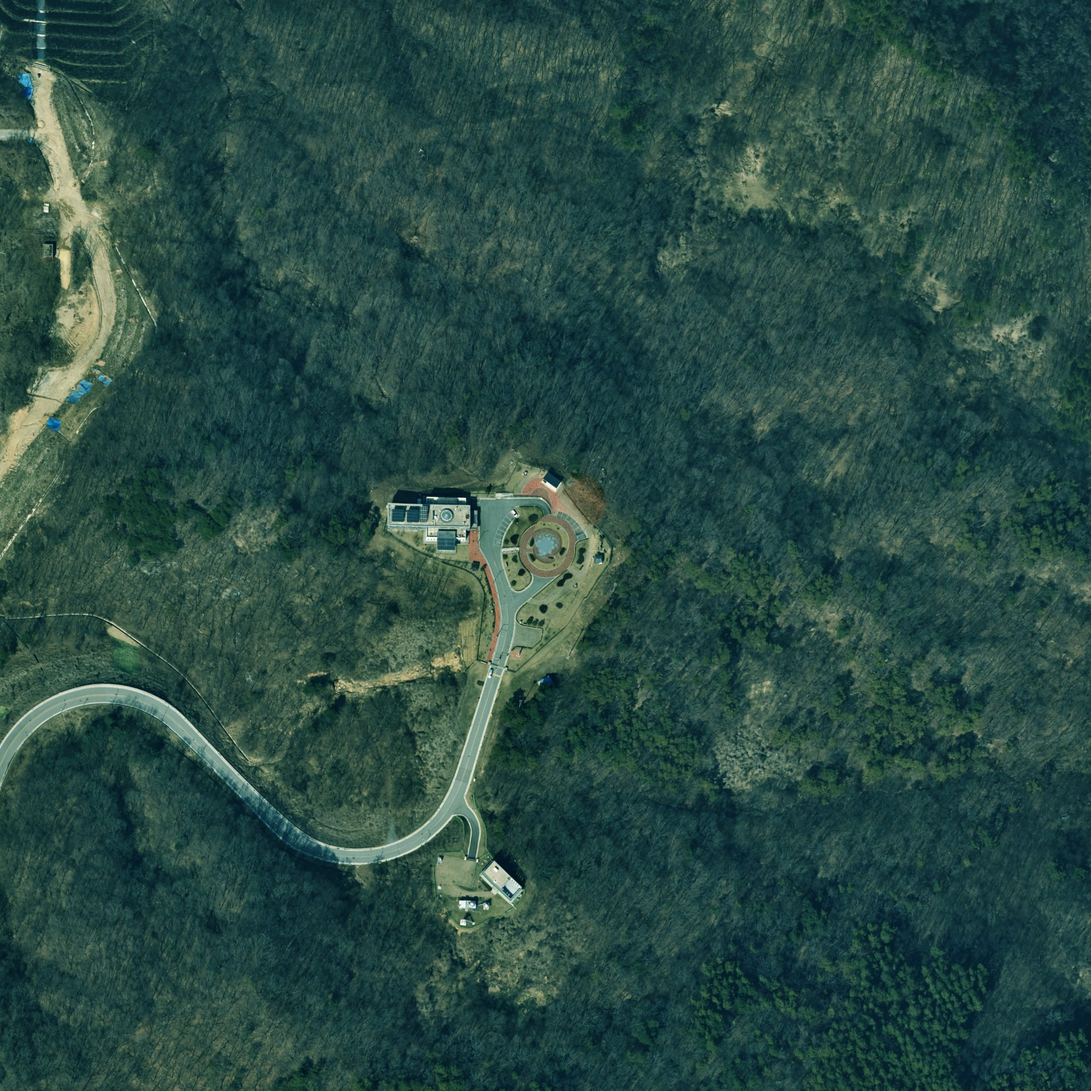
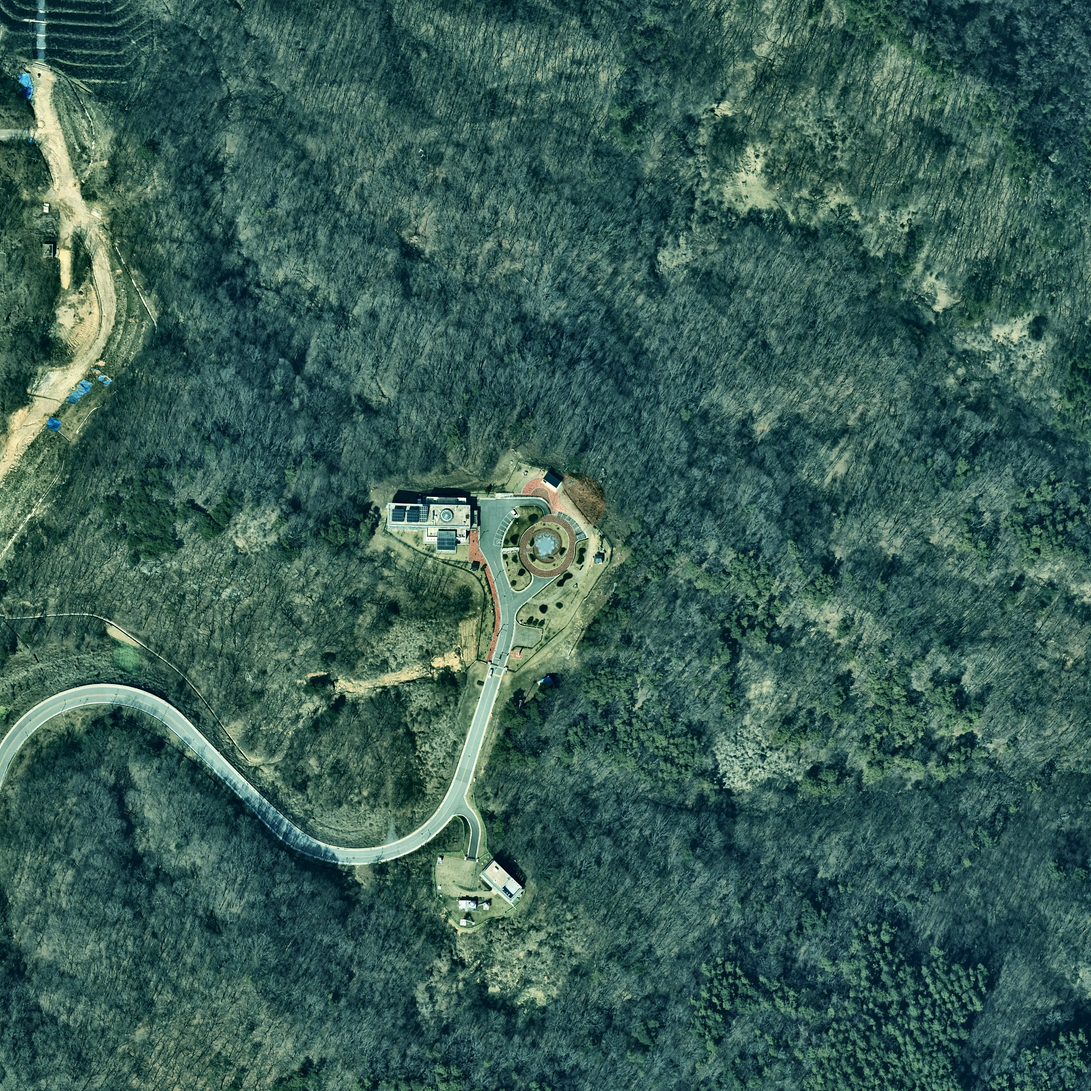
deploy p10051211

diff --git a/ts/antenna3d.html b/ts/antenna3d.html
@@ -269,7 +269,7 @@ if(T&&hasGL()){try{A3D=(function(){
   const TER={on:false,mesh:null,ring:null,busy:false,twin:null,dem:null};
   async function setTerrain(on){
     TER.on=!!on; GND.visible=!TER.on; if(WIND)WIND.group.visible=!TER.on;
-    if(TER.mesh)TER.mesh.visible=TER.on; if(TER.ring)TER.ring.visible=TER.on; if(TER.twin)TER.twin.visible=TER.on;
+    if(TER.mesh)TER.mesh.visible=TER.on; if(TER.shadow)TER.shadow.visible=TER.on; if(TER.ring)TER.ring.visible=TER.on; if(TER.twin)TER.twin.visible=TER.on;
     if(ANT&&ANT.setTrunk)ANT.setTrunk(TER.on&&TER.path?TER.path:TRUNK0);
     // 지형일 때는 안개를 화면 바탕색(#0a1120, sRGB → 선형)으로 — 사진 끝이 바탕에 녹아든다
     scene.fog=TER.on?new T.Fog(new T.Color(0x0a1120).convertSRGBToLinear(),330,980):(EMBED?null:new T.Fog(0x0a1120,240,560));
@@ -280,10 +280,13 @@ if(T&&hasGL()){try{A3D=(function(){
       // 미니앱 잠금판이면 TSX 가 암호문(x/<사이트 기준 경로>.bin)을 풀어 준다
       const base='models/terrain/', get=async(u,t)=>{ if(window.TSX&&TSX.fetch&&TSX.has&&TSX.has(u)){const rel=new URL(u,location.href).href.split('?')[0].slice(TSX.base.length);
           const b=await TSX.fetch(rel);return t==='json'?JSON.parse(new TextDecoder().decode(b)):new Blob([b],{type:'image/jpeg'});}
+        if(t==='img')return u;   // 잠금판이 아니면 그림은 주소 그대로(10-05 — 큰 그림을 blob 으로 거치면 크롬이 디스크에 내려 두다 깨질 수 있다)
         const r=await fetch(u,{cache:'force-cache'}); if(!r.ok)throw new Error(u+' '+r.status); return t==='json'?r.json():r.blob(); };
-      // 무늬 크기 — 큰 화면(크게 보기·상황실) 4k · 카드 2k · 아주 작은 창 1k
-      const big=Math.max(innerWidth,innerHeight), oname=big<520?'site_ortho_1k.jpg':(EMBED&&!BARE)||big<1100?'site_ortho.jpg':'site_ortho_4k.jpg';
-      const [dem,hz,img]=await Promise.all([get(base+'site_dem.json','json'),get(base+'horizon.json','json'),get(base+oname,'blob')]);
+      // 무늬 크기 — 10-05 화질(센터장님 "정사영상 화질이 너무 안 좋은데"): 작은 창이 1k(0.58 m/px)를 받아 뭉개지던 것을 막는다.
+      //   늘 2k(0.29 m/px — 원본 0.25 m 와 거의 같다) 이상 · 데스크톱의 큰 화면(크게 보기·상황실)은 4k. 휴대폰·미니앱은 메모리 때문에 2k 까지
+      const px=Math.max(innerWidth,innerHeight)*Math.min(devicePixelRatio||1,2), mobile=!!FEEDURL||/Mobi|Android|iPhone|iPad/i.test(navigator.userAgent),
+            oname=!mobile&&px>=1100&&!(EMBED&&!BARE)?'site_ortho_4k.jpg':'site_ortho.jpg';
+      const [dem,hz,img]=await Promise.all([get(base+'site_dem.json','json'),get(base+'horizon.json','json'),get(base+oname,'img')]);
       TER.dem=dem;
       const K=1.7, S=dem.side_m*K, N=dem.n, geo=new T.PlaneGeometry(S,S,N-1,N-1); geo.rotateX(-Math.PI/2);
       const pos=geo.attributes.position;
@@ -291,11 +294,15 @@ if(T&&hasGL()){try{A3D=(function(){
         // 보정판(v2)은 그대로 · 옛 판은 안테나 둘레 14 m 를 마당으로 눌러 30 m 까지 잇는다
         const w=dem.corrected?1:r<14?0:r>30?1:(r-14)/16; pos.setY(k,(dem.h[i*N+j]||0)*K*w*w*(3-2*w)-0.05);}
       geo.computeVertexNormals();
-      const tex=new T.Texture(); tex.image=await createImageBitmap(img,{imageOrientation:'flipY'}).catch(()=>null);
-      if(!tex.image){const im=new Image(); im.src=URL.createObjectURL(img); await im.decode(); tex.image=im; tex.flipY=true;} else tex.flipY=false;
-      tex.encoding=T.sRGBEncoding; tex.anisotropy=Math.min(8,rn.capabilities.getMaxAnisotropy()); tex.needsUpdate=true;
-      TER.mesh=new T.Mesh(geo,new T.MeshStandardMaterial({map:tex,roughness:1,metalness:0,envMapIntensity:.25}));
-      TER.mesh.receiveShadow=true; scene.add(TER.mesh);
+      const tex=new T.Texture(); let imgEl=null;
+      if(typeof img==='string'){ imgEl=new Image(); imgEl.decoding='async'; imgEl.src=img; await imgEl.decode(); tex.image=imgEl; tex.flipY=true; }
+      else{ tex.image=await createImageBitmap(img,{imageOrientation:'flipY'}).catch(()=>null);
+        if(!tex.image){const im=new Image(); im.src=URL.createObjectURL(img); await im.decode(); tex.image=im; tex.flipY=true;} else tex.flipY=false; }
+      tex.encoding=T.sRGBEncoding; tex.anisotropy=rn.capabilities.getMaxAnisotropy(); tex.needsUpdate=true;   // 비스듬히 봐도 흐려지지 않게 이방성 최대
+      // 사진 색 그대로(조명·ACES 톤 매핑을 받으면 어둡고 흐려졌다 — 10-05) — 정사영상에 해 그늘이 이미 들어 있다. 안테나·건물 그림자는 위에 따로 얹는다
+      TER.mesh=new T.Mesh(geo,new T.MeshBasicMaterial({map:tex,color:0xeeeeee,toneMapped:false}));
+      scene.add(TER.mesh);
+      TER.shadow=new T.Mesh(geo,new T.ShadowMaterial({opacity:.38})); TER.shadow.receiveShadow=true; TER.shadow.position.y=.03; scene.add(TER.shadow);
       // 지평선 — 반지름 RH 의 띠: 아래(땅 밖) → 실제 앙각 높이. 윗 가장자리에 옅은 청록 선
       const RH=760, M=360, vs=[], ix=[], ln=[];
       for(let a=0;a<=M;a++){const az=(a%360)*Math.PI/180, el=(hz.el[a%360]||0), y=Math.tan(Math.max(-0.4,el)*Math.PI/180)*RH;
@@ -306,7 +313,7 @@ if(T&&hasGL()){try{A3D=(function(){
       TER.ring.add(new T.Mesh(hg,new T.MeshBasicMaterial({color:new T.Color(0x081120).convertSRGBToLinear(),side:T.DoubleSide,fog:false,toneMapped:false})));
       TER.ring.add(new T.Line(new T.BufferGeometry().setFromPoints(ln),new T.LineBasicMaterial({color:0x5fd0e6,transparent:true,opacity:.55,fog:false,toneMapped:false})));
       scene.add(TER.ring);
-      TER.mesh.visible=TER.ring.visible=TER.on; dirty=true;
+      TER.mesh.visible=TER.shadow.visible=TER.ring.visible=TER.on; dirty=true;
       // 데이터 줄기 — 안테나 기단에서 지형을 따라 관측동 동쪽 현관(−37.8, 15)까지
       if(dem.corrected){const hAt=(e,n)=>{const x=(e+dem.side_m/2)/dem.side_m*(N-1), y=(dem.side_m/2-n)/dem.side_m*(N-1), j0=Math.max(0,Math.min(N-2,Math.floor(x))), i0=Math.max(0,Math.min(N-2,Math.floor(y))), fx=x-j0, fy=y-i0, H=dem.h;
           return H[i0*N+j0]*(1-fx)*(1-fy)+H[i0*N+j0+1]*fx*(1-fy)+H[(i0+1)*N+j0]*(1-fx)*fy+H[(i0+1)*N+j0+1]*fx*fy;};
@@ -317,8 +324,8 @@ if(T&&hasGL()){try{A3D=(function(){
       // 건물·필라 — 지붕에 같은 정사영상(glTF 무늬 좌표라 위아래를 뒤집지 않은 판)
       if(T.GLTFLoader){
         try{
-          const roofTex=new T.Texture(await createImageBitmap(img)); roofTex.flipY=false; roofTex.encoding=T.sRGBEncoding;
-          roofTex.anisotropy=Math.min(8,rn.capabilities.getMaxAnisotropy()); roofTex.needsUpdate=true;
+          const roofTex=new T.Texture(imgEl||await createImageBitmap(img)); roofTex.flipY=false; roofTex.encoding=T.sRGBEncoding;
+          roofTex.anisotropy=rn.capabilities.getMaxAnisotropy(); roofTex.needsUpdate=true;
           const L=new T.GLTFLoader(), url='models/site_twin.glb';
           const g=await new Promise((ok,no)=>{ if(window.TSX&&TSX.glb) TSX.glb(url).then(b=>L.parse(b,'',ok,no),no); else L.load(url,ok,undefined,no); });
           const tw=g.scene; tw.scale.setScalar(K);

diff --git a/ts/antmodel.js b/ts/antmodel.js
@@ -5,7 +5,7 @@
  *   사실적 재질(PBR, 하늘 반사) · **실제 해 쪽 그림자**(밤이면 옅은 달빛) · 바닥을 흐르는 **바람 결** · 받침을 감는 **케이블 나선** ·
  *   기단에서 나가는 **데이터 줄기**(기록·전송 중이면 빛이 흐른다) · 장애 난 부품이 **붉게 빛나고** 풀리면 초록으로 사그라진다(10-04).
  *   끌면 둘러보고 · 휠 확대 · 두 번 누르면 처음 시점. 글은 캔버스에 쓰지 않는다.
- * 쓰기: const m = AntModel.create(canvas, { url: '/web/models/sejong22m.glb', ortho: '/web/models/terrain/site_ortho_1k.jpg'(선택 — 정사영상 바닥) });
+ * 쓰기: const m = AntModel.create(canvas, { url: '/web/models/sejong22m.glb', ortho: '/web/models/terrain/site_ortho_core.jpg', orthoSpan: 64 (선택 — 정사영상 바닥) });
  *       m.set({ az, el, state, faults: {mount, hub, data}, hexapod, flow, wrapAz, wind: {wdir, wsp} }); m.resize();
  *   state: idle 파랑 · run 초록 · busy 호박 · halt 빨강 · off 회색
  *   faults: Sejong22m.faults(...) 결과 — 받침·구동부(ACU) · 허브(수신기·DBBC3) · 데이터 줄기(기록·전송)
@@ -80,16 +80,19 @@
     const shadowF = new T.Mesh(new T.CircleGeometry(30, 96), new T.ShadowMaterial({ opacity: 0.55 }));
     shadowF.rotation.x = -Math.PI / 2; shadowF.position.y = 0.01; shadowF.receiveShadow = true; scene.add(shadowF);
     const grid = new T.PolarGridHelper(29, 24, 6, 96, 0x1f3f6e, 0x15294a); grid.position.y = 0.02; scene.add(grid);
-    // 정사영상 바닥(10-04 디지털 트윈 — 가볍게): opts.ortho(1k, 590 m 네모)의 가운데 ±29 m 를 어둡게 눌러 깐다. 가장자리는 어둠으로 흐린다
+    // 정사영상 바닥(10-04 디지털 트윈 — 가볍게): opts.ortho 의 가운데 ±29 m 를 깐다. 가장자리는 어둠으로 흐린다
+    //   10-05 화질(센터장님 "정사영상 화질이 너무 안 좋은데"): 590 m 1k 판의 가운데만 잘라 100 화소로 뭉개지던 것을 ±32 m 조각
+    //   (site_ortho_core.jpg · 1024 px · opts.orthoSpan 64)으로 · 톤 매핑을 빼 사진 색 그대로 · 이방성 최대
     if (opts.ortho) {
       const fade = document.createElement('canvas'); fade.width = fade.height = 128;
       const fg = fade.getContext('2d'), gr = fg.createRadialGradient(64, 64, 20, 64, 64, 64);
       gr.addColorStop(0, '#fff'); gr.addColorStop(0.7, '#bbb'); gr.addColorStop(1, '#000'); fg.fillStyle = gr; fg.fillRect(0, 0, 128, 128);
       const og = new T.CircleGeometry(29.5, 96), uv = og.attributes.uv, pp = og.attributes.position;
-      for (let i = 0; i < uv.count; i++) uv.setXY(i, 0.5 + pp.getX(i) / 590, 0.5 + pp.getY(i) / 590);
-      const om = new T.MeshBasicMaterial({ color: 0x7d8a99, transparent: true, alphaMap: new T.CanvasTexture(fade), depthWrite: false });
+      const span = opts.orthoSpan || 590;                  // 무늬 한 변(m) — 조각 64 · 옛 전체 판 590
+      for (let i = 0; i < uv.count; i++) uv.setXY(i, 0.5 + pp.getX(i) / span, 0.5 + pp.getY(i) / span);
+      const om = new T.MeshBasicMaterial({ color: 0xb4bec8, transparent: true, alphaMap: new T.CanvasTexture(fade), depthWrite: false, toneMapped: false });
       const disc = new T.Mesh(og, om); disc.rotation.x = -Math.PI / 2; disc.position.y = 0.006; disc.visible = false; scene.add(disc);
-      const put = (tex) => { tex.encoding = T.sRGBEncoding; tex.anisotropy = 4; om.map = tex; om.needsUpdate = true; disc.visible = true; grid.material.opacity = 0.45; grid.material.transparent = true; dirty = true; };
+      const put = (tex) => { tex.encoding = T.sRGBEncoding; tex.anisotropy = rn.capabilities.getMaxAnisotropy(); om.map = tex; om.needsUpdate = true; disc.visible = true; grid.material.opacity = 0.45; grid.material.transparent = true; dirty = true; };
       const u = opts.ortho;
       if (window.TSX && window.TSX.has && window.TSX.has(u)) {
         const rel = new URL(u, location.href).href.split('?')[0].slice(window.TSX.base.length);

diff --git a/index.html b/index.html
@@ -313,7 +313,7 @@
 <script>
 const TG=window.Telegram?.WebApp; TG?.ready(); TG?.expand();
 const GIST_ID=(new URLSearchParams(location.search).get("g")||"5404bef7f8d5b9f4e8d2824515fc8728");
-const REV="p10042106";
+const REV="p10051211";
 let GLOBECODE="";      // 지구본 세션 선택(선택기 → postMessage)
 const BODY={};
 async function loadBody(name){
@@ -617,7 +617,7 @@ function mountTSCore(){
     if(!TSCW){ TSCW=document.createElement("div"); TSCW.className="tsc-fx";
       const cv=document.createElement("canvas"); cv.className="tsc-ant"; TSCW.append(cv);
       sl.appendChild(TSCW);
-      try{ TSCF=window.AntModel.create(cv,{url:"./ts/models/sejong22m.glb", ortho:"./ts/models/terrain/site_ortho_1k.jpg" /* 정사영상 바닥 — 운용 화면과 똑같이(10-04) */}); }catch(e){ TSCW=null; return; } }
+      try{ TSCF=window.AntModel.create(cv,{url:"./ts/models/sejong22m.glb", ortho:"./ts/models/terrain/site_ortho_core.jpg", orthoSpan:64 /* 정사영상 바닥 — 운용 화면과 똑같이(10-04) */}); }catch(e){ TSCW=null; return; } }
     if(TSCW.parentElement!==sl) sl.appendChild(TSCW);
     const a=TSL.antenna||{};
     TSCF.resize(); TSCF.set(Object.assign({state:tsState(TSL), az:n2(a.az), el:n2(a.el)}, tsAntEx(TSL)));
